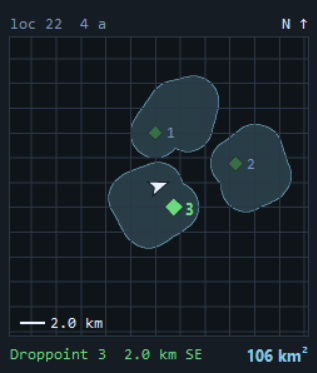
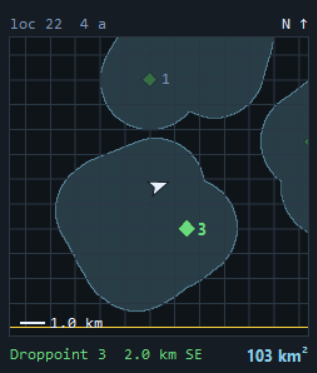
Reach 10 km, show 12 km, grid every kilometre
Few drive further than 6-7 km from the ship. The mask reaches 10 km from the
first droppoint (was 22), 400 x 400 at 50 m a pixel; the map shows 12 km
across (was 24), which on a 1080p game is the mask's own resolution; grid
lines every 1 km (was 2), 20 px apart.

Claude-Session: https://claude.ai/code/session_01M6boCJULrSyUu3acaq6ken

diff --git a/rs_tests/test_coverage.py b/rs_tests/test_coverage.py
@@ -89,18 +89,20 @@ class TestPainting:
 
     def test_the_mask_edge_paints_only_what_is_inside(self):
         cover = fresh()
-        cover.add(*at(coverage.REACH_M, 0))
+        # A metre inside: exactly on REACH_M is a float's width either side.
+        cover.add(*at(coverage.REACH_M - 1, 0))
         assert cover.painted_km2() == pytest.approx(disc_km2() / 2, rel=0.05)
 
     def test_stamping_the_mask_edge_again_is_not_new_ground(self):
         # A crop past the edge used to count its zero padding as new paint,
         # and rebuild the layer on every stamp out there.
         cover = fresh()
-        cover.add(*at(21000, 0))
+        edge = coverage.REACH_M - 1000
+        cover.add(*at(edge, 0))
         version = cover.version
         for _ in range(5):
-            cover.launched(*at(21000, 0))
-            cover.add(*at(21000, 0))
+            cover.launched(*at(edge, 0))
+            cover.add(*at(edge, 0))
         assert cover.version == version
 
     def test_crossing_the_180th_meridian_is_a_step_not_a_planet(self):
@@ -147,8 +149,8 @@ class TestFollow:
         # leaves the ground between them unpainted.
         cover = coverage.follow(None, self.fix(), was_in_srv=False)
         cover.add(*at(0, 0))
-        cover = coverage.follow(cover, self.fix(x=9000), was_in_srv=False)
-        cover.add(*at(9000, 0))
+        cover = coverage.follow(cover, self.fix(x=6000), was_in_srv=False)
+        cover.add(*at(6000, 0))
         assert cover.painted_km2() == pytest.approx(2 * disc_km2(), rel=0.03)
 
     def test_another_body_is_a_new_droppoint(self):
@@ -229,7 +231,7 @@ class TestSaved:
 
     def test_the_nearest_saved_map_wins(self):
         near = coverage.Coverage("A 2", *at(2000, 0), RADIUS)
-        far = coverage.Coverage("A 2", *at(-15000, 0), RADIUS)
+        far = coverage.Coverage("A 2", *at(-8000, 0), RADIUS)
         saved = lambda body: [("map 1", far.to_dict()), ("map 2", near.to_dict())]
         assert coverage.follow(None, self.fix(), was_in_srv=False, saved=saved).name == "map 2"
 
@@ -237,13 +239,13 @@ class TestSaved:
         # What EDMC would have had in memory, so a restart does not split the
         # ground across two files.
         near = dict(coverage.Coverage("A 2", *at(2000, 0), RADIUS).to_dict(), saved=100.0)
-        far = dict(coverage.Coverage("A 2", *at(-15000, 0), RADIUS).to_dict(), saved=200.0)
+        far = dict(coverage.Coverage("A 2", *at(-8000, 0), RADIUS).to_dict(), saved=200.0)
         saved = lambda body: [("map 1", near), ("map 2", far)]
         assert coverage.follow(None, self.fix(), was_in_srv=False, saved=saved).name == "map 2"
 
     def test_a_nearest_map_that_will_not_load_gives_way(self):
         near = dict(coverage.Coverage("A 2", *at(2000, 0), RADIUS).to_dict(), stamps="broken")
-        far = coverage.Coverage("A 2", *at(-15000, 0), RADIUS).to_dict()
+        far = coverage.Coverage("A 2", *at(-8000, 0), RADIUS).to_dict()
         saved = lambda body: [("map 1", far), ("map 2", near)]
         assert coverage.follow(None, self.fix(), was_in_srv=False, saved=saved).name == "map 1"
 
@@ -289,9 +291,9 @@ class TestRender:
         side = 240
         image = coverage.render(cover, 0, 0, None, side)
         per_m = side / (2 * coverage.VIEW_M)
-        # 1 km east and 5 km north: inside the disc and off every grid line.
-        north = self.pixel(image, side / 2 + 1000 * per_m, side / 2 - 5000 * per_m)
-        south = self.pixel(image, side / 2 + 1000 * per_m, side / 2 + 5000 * per_m)
+        # 500 m east and 4.5 km north: inside the disc and off every grid line.
+        north = self.pixel(image, side / 2 + 500 * per_m, side / 2 - 4500 * per_m)
+        south = self.pixel(image, side / 2 + 500 * per_m, side / 2 + 4500 * per_m)
         assert north == coverage.FILL
         assert south == palette.rgb(palette.BG)
 

diff --git a/rs_core/coverage.py b/rs_core/coverage.py
@@ -10,7 +10,7 @@ writes says a scan happened, so the map cannot know, and it does not claim to.
 SCAN_RADIUS_M is the community figure - Frontier has not published one. Change
 it here and nothing else moves.
 
-Flat earth, through measure.to_metres: REACH_M is 22 km on bodies a thousand
+Flat earth, through measure.to_metres: REACH_M is 10 km on bodies a thousand
 kilometres in radius, and at that distance the projection is off by less than
 a disc edge is wide.
 
@@ -30,15 +30,16 @@ IN_SRV = 0x4000000
 # What the scanner sees from where the SRV is, in metres.
 SCAN_RADIUS_M = 2000.0
 
-# Half the width of what the map shows around the SRV: a mining location of up
-# to 10 km radius plus one disc.
-VIEW_M = 12000.0
+# Half the width of what the map shows around the SRV. 12 km across is 50 m a
+# pixel on a 1080p map - the mask's own resolution - and a 1 km grid still has
+# 20 px between its lines.
+VIEW_M = 6000.0
 
-# Half the width of the mask around the droppoint. A droppoint at the edge of a
-# 10 km location has its far side 20 km away, plus one disc.
-REACH_M = 22000.0
+# Half the width of the mask around the droppoint. Few drive further than 6-7
+# km from the ship in any direction; 10 km leaves room past that.
+REACH_M = 10000.0
 
-# Mask resolution. 50 m a pixel is 880 x 880, 774 KB, and still sharp on a map
+# Mask resolution. 50 m a pixel is 400 x 400, 160 KB, and still sharp on a map
 # drawn 480 px wide.
 MASK_M_PER_PX = 50.0
 
@@ -47,7 +48,7 @@ MASK_M_PER_PX = 50.0
 STAMP_M = 250.0
 
 # Grid lines, pinned to the droppoint so they move with the ground.
-GRID_M = 2000.0
+GRID_M = 1000.0
 
 # How big the map is drawn, as a share of the game window's height, and the
 # limits either side - a laptop window should not get a stamp, a 4K screen
@@ -254,7 +255,7 @@ def _pick_saved(found, body, lat, lon, skip=None):
 
 
 # The map side that makes the saved picture come out at the mask's own size:
-# the whole mask, 880 x 880 at 50 m a pixel.
+# the whole mask, 400 x 400 at 50 m a pixel.
 PICTURE_SIDE = int(round(MASK_PX * VIEW_M / REACH_M))
 
 

diff --git a/rs_core/coverstore.py b/rs_core/coverstore.py
@@ -4,7 +4,7 @@ r"""The minimap's painted ground, kept, so an EDMC restart does not wipe it.
     %LOCALAPPDATA%\RhinoSpotter\coverage\<Body>\map 1.png
 
 A folder per body, a file per map. A body can hold several maps - two mining
-locations more than 22 km apart are two - and one file each means a save never
+locations more than 10 km apart are two - and one file each means a save never
 has to read and merge the others.
 
 Not a picture: the points the SRV painted new ground at, as latitude and

diff --git a/README.md b/README.md
@@ -161,19 +161,20 @@ which way it is, and how many km² are painted.
 - **Ship hops keep the map and paint nothing.** Dock, fly 3 km, launch again,
   and it carries on painting the same area from the new droppoint. Droppoints
   are numbered; the latest is bright, because that is where the ship is, and
-  the footer points to it. A launch more than 22 km from the first droppoint,
-  or on another body, starts a fresh map. Driving past 22 km says **out of
+  the footer points to it. A launch more than 10 km from the first droppoint,
+  or on another body, starts a fresh map. Driving past 10 km says **out of
   range** and stops painting.
 - **Size follows the game window**: 22% of its height, between 180 and 480 px.
-  The map always shows 24 km across, so 1080p is about 100 m a pixel. Hidden
+  The map always shows 12 km across with a 1 km grid, so 1080p is about 50 m a
+  pixel. Hidden
   while the game is minimised.
 - **Settings**: EDMC Settings, RhinoSpotter tab - the minimap on (default) or
   off, and top left, top right, bottom left or bottom right.
 - **Saved.** The painted area is written to
   `%LOCALAPPDATA%\RhinoSpotter\coverage\<Body>\` as the points it was painted
-  from, and a launch within 22 km of a saved map on that body carries it on,
+  from, and a launch within 10 km of a saved map on that body carries it on,
   EDMC restarts included. Each time the SRV goes back into the ship the whole
-  map is also saved as a picture beside it, `map N.png`, 880 px at 50 m a
+  map is also saved as a picture beside it, `map N.png`, 400 px at 50 m a
   pixel. The Settings tab shows how many maps there are and how much space
   they take, with a button to open the folder.
 

diff --git a/CHANGELOG.md b/CHANGELOG.md
@@ -8,14 +8,20 @@
   droppoints go to `%LOCALAPPDATA%\RhinoSpotter\coverage\<Body>\map N.json.gz`,
   about 2.4 KB for an hour's drive and 1.3 ms to write, two seconds after new
   ground at most and at once when the SRV docks or EDMC closes. A launch
-  within 22 km of a saved map on that body carries it on, with a new
+  within 10 km of a saved map on that body carries it on, with a new
   droppoint; loading repaints the mask from the points, 11 ms for an hour's
   drive. Plain `.json` files are read too.
 - Each time the SRV docks, the whole map is saved beside it as `map N.png`:
-  880 px, 50 m a pixel, north up, droppoints numbered. Drawn off the Tk
+  400 px, 50 m a pixel, north up, droppoints numbered. Drawn off the Tk
   thread, 70 to 160 ms measured. Nothing reads it back.
 - The RhinoSpotter settings tab shows how many maps are saved and how much
   space they take, and opens the folder.
+
+**Changed**
+
+- The minimap reaches 10 km from the first droppoint, was 22, and shows 12 km
+  across, was 24, with a 1 km grid, was 2. On a 1080p game that is 50 m a
+  pixel, was 100. A launch more than 10 km out starts a new map.
 
 **Not flown**
 

diff --git a/structure.md b/structure.md
@@ -100,8 +100,8 @@ No tkinter anywhere in here.
   `ground_rules.json` above all, because a locally refreshed sheet is newer
   than the one in a release.
 - **[coverage.py](rs_core/coverage.py)** - the minimap's painting. Every
-  Status.json fix in the SRV stamps a 2 km disc onto an 880 x 880 mask, 50 m
-  a pixel, anchored at the first droppoint and reaching 22 km either way.
+  Status.json fix in the SRV stamps a 2 km disc onto a 400 x 400 mask, 50 m
+  a pixel, anchored at the first droppoint and reaching 10 km either way.
   `follow()` decides when a launch is the same map (same body, inside the
   mask) and adds a droppoint, and when it is a new map. A disc that paints
   nothing new does not move `version`, and the drawn layer is only rebuilt
